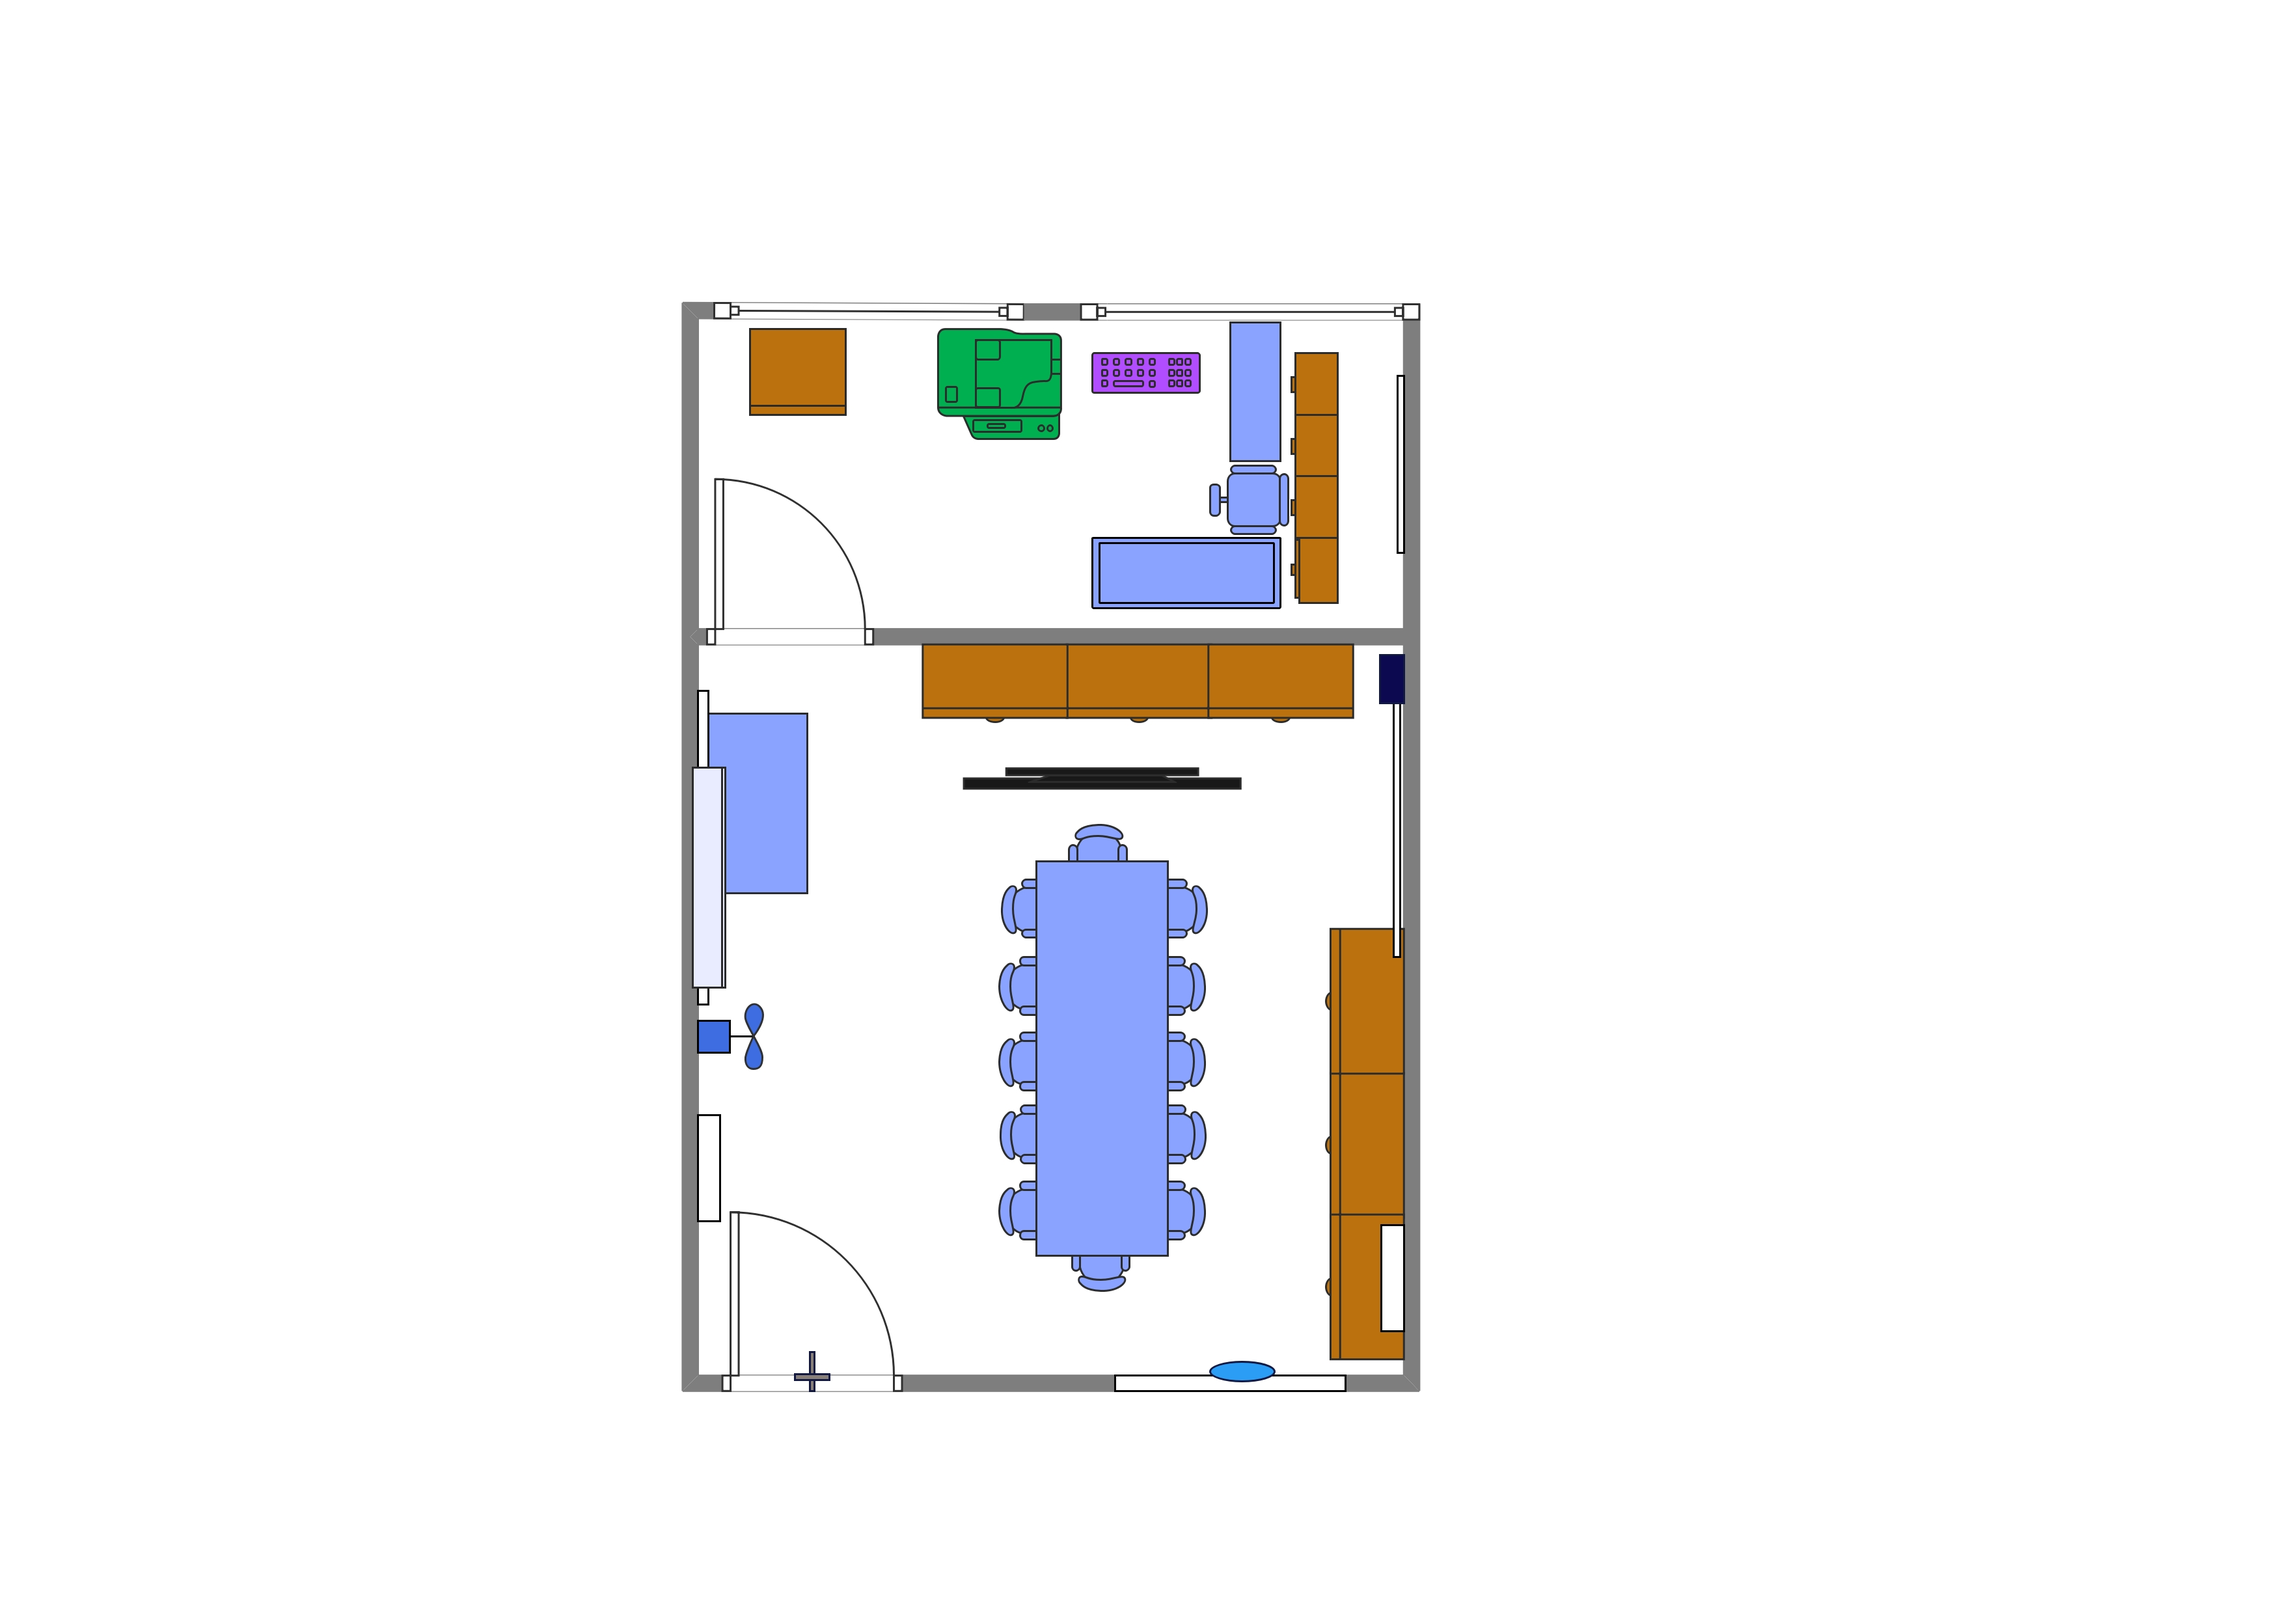
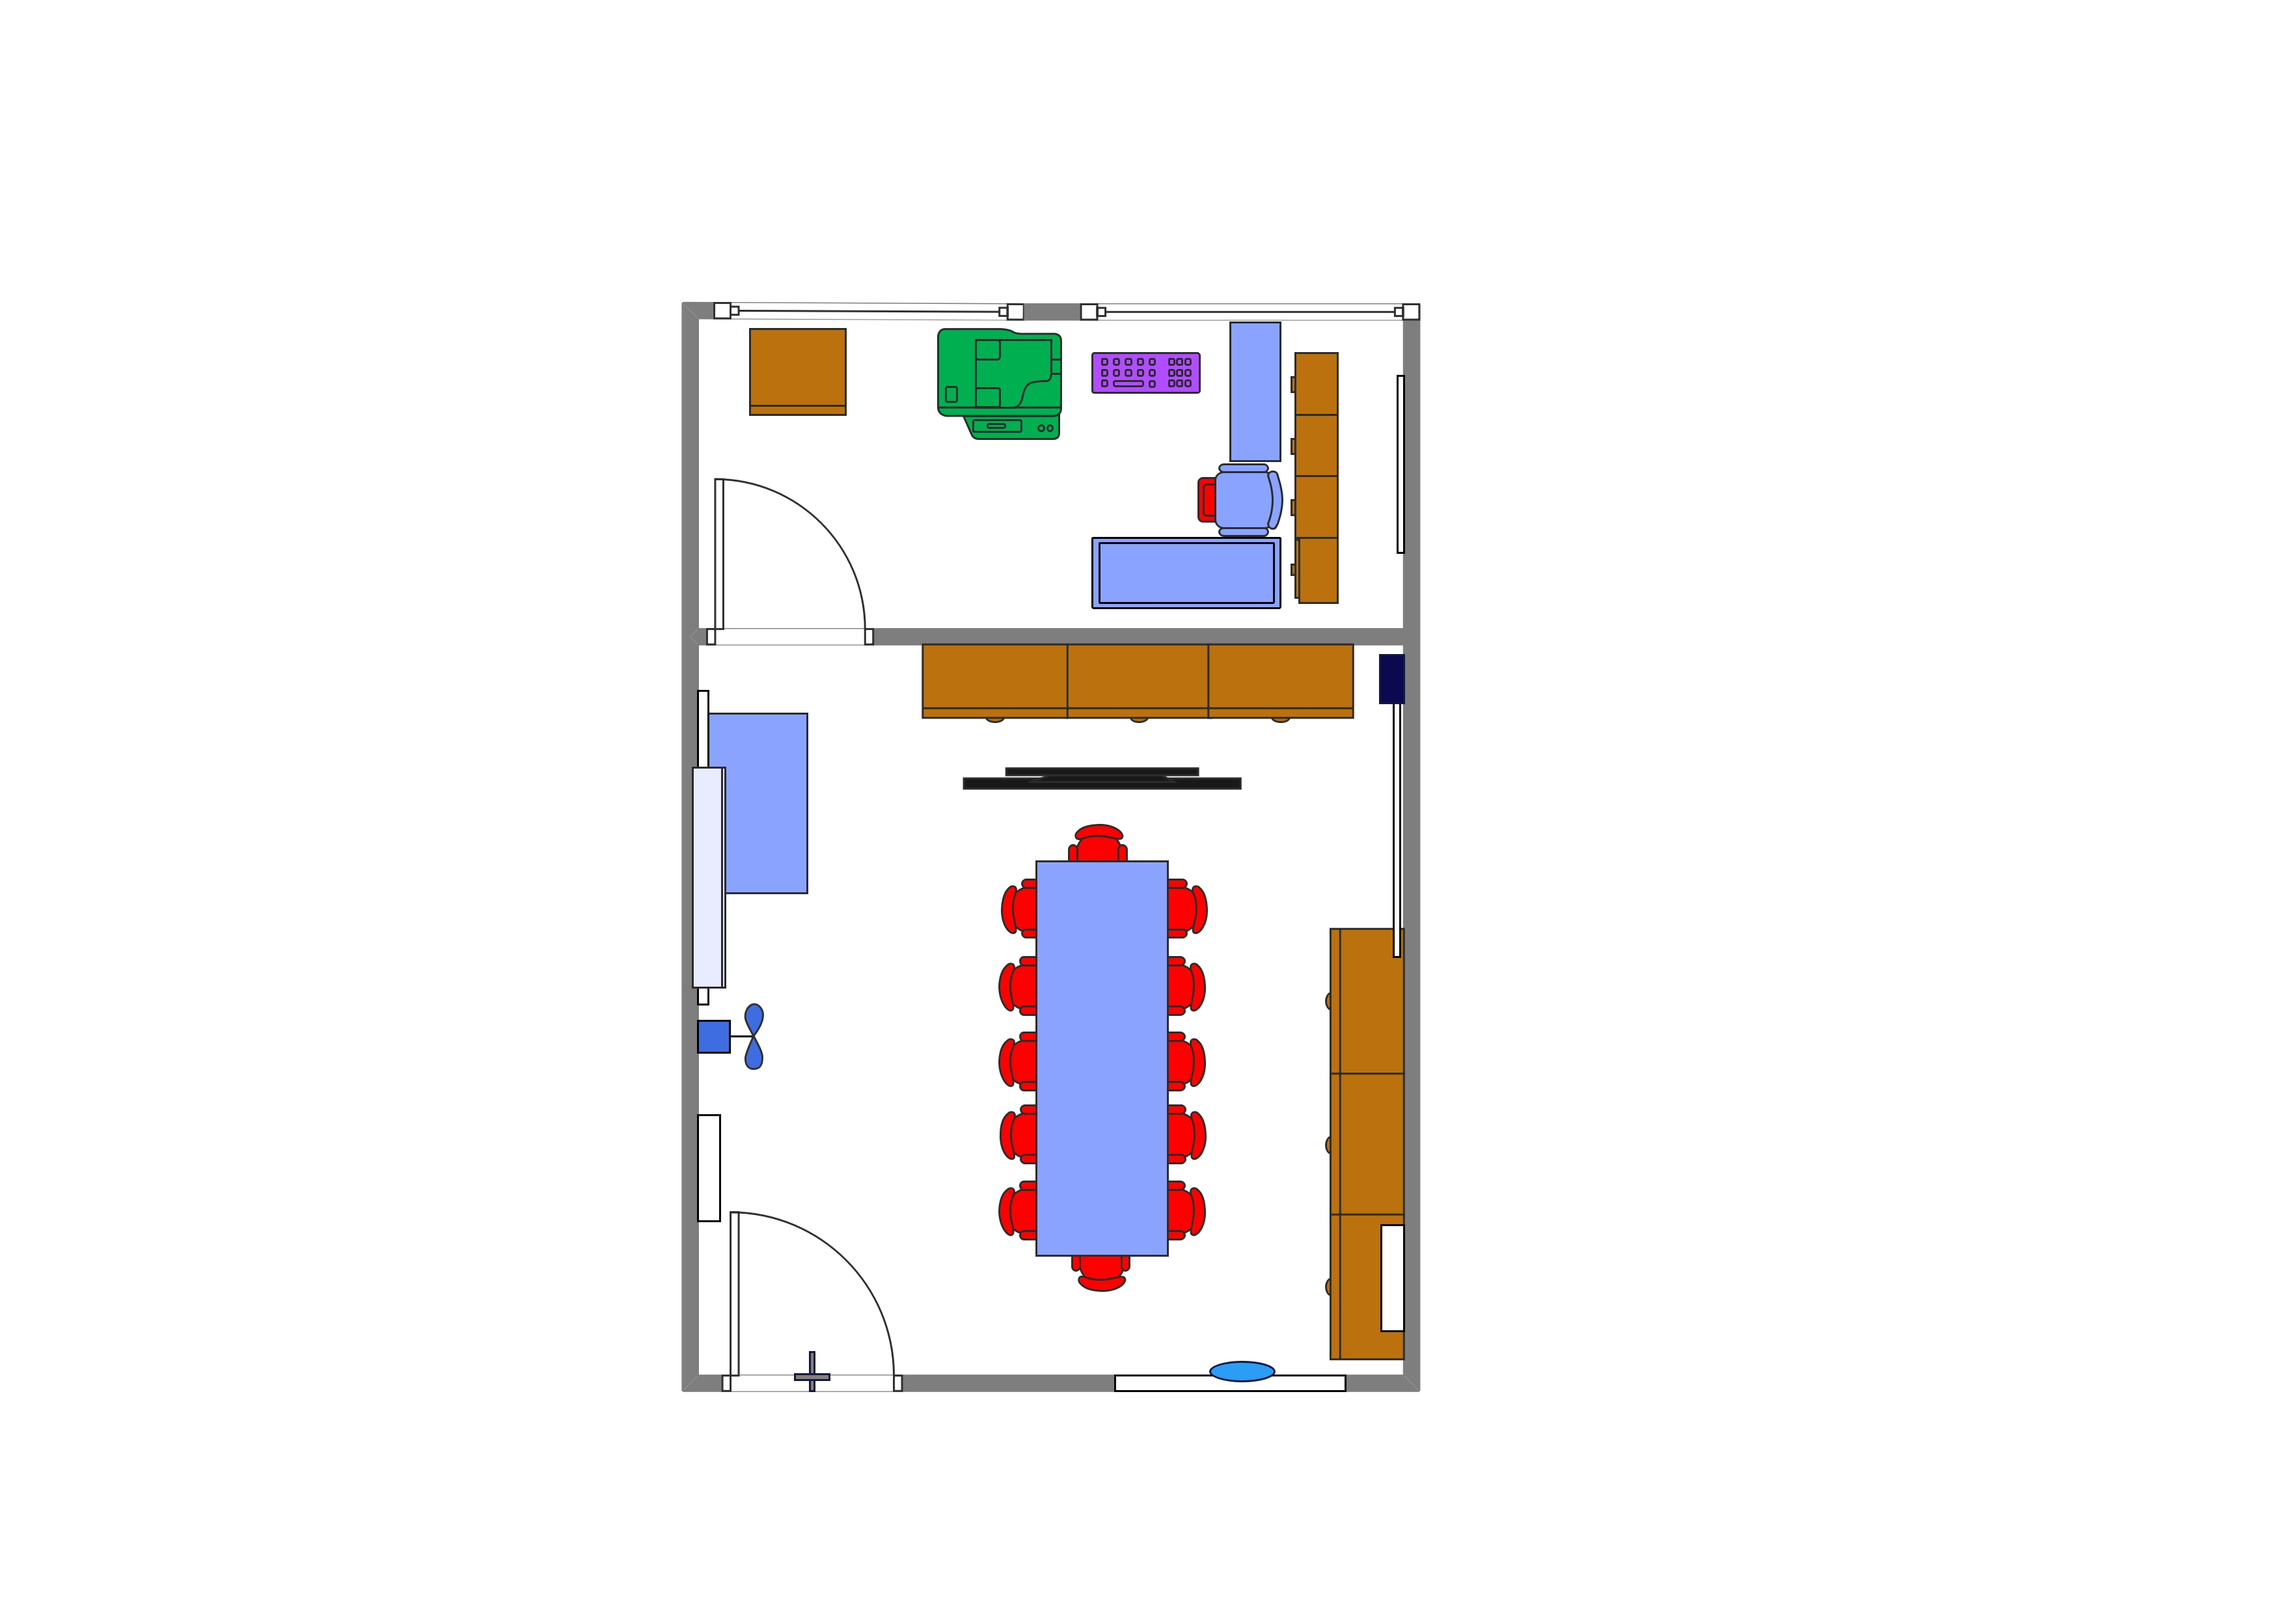
update warna kursi

Changed region(s): [[0.435, 0.4968, 0.5282, 0.7762], [0.5282, 0.2794, 0.5593, 0.3415], [0.4661, 0.7762, 0.4971, 0.8073]]

diff --git a/src/data/roomsData.js b/src/data/roomsData.js
@@ -144,7 +144,7 @@ export const roomsData = {
     ],
     assets: [
       { icon: "/icons/table.svg", name: "Meja Meeting", count: "1 set Unit" },
-      { icon: "/icons/studentChair.svg", name: "Kursi Meeting", count: "12 Unit" },
+      { icon: "/icons/studentChair.svg", name: "Kursi", count: "12 Unit" },
       { icon: "/icons/speaker.svg", name: "Speaker", count: "1 Unit" },
       { icon: "/icons/mic.svg", name: "Microphone", count: "1 Unit" },
       { icon: "/icons/airConditioner.svg", name: "Air Conditioner", count: "1 Unit" }, 
@@ -164,7 +164,7 @@ export const roomsData = {
     legendItems: [
       { number: 1, name: "Pintu Masuk", color: "#fffff"},
       { number: 2, name: "Meja", color: "#8AA3FF"},
-      { number: 3, name: "Kursi", color: "#8AA3FF"},
+      { number: 3, name: "Kursi", color: "#FE0000", textColor: "#FFFFFF"},
       { number: 4, name: "Papan Data Informasi", color: "#d7d7d7"},
       { number: 5, name: "Lemari", color: "#BB710E"},
       { number: 6, name: "Air Codnitioner", color: "#E9ECFF"},
